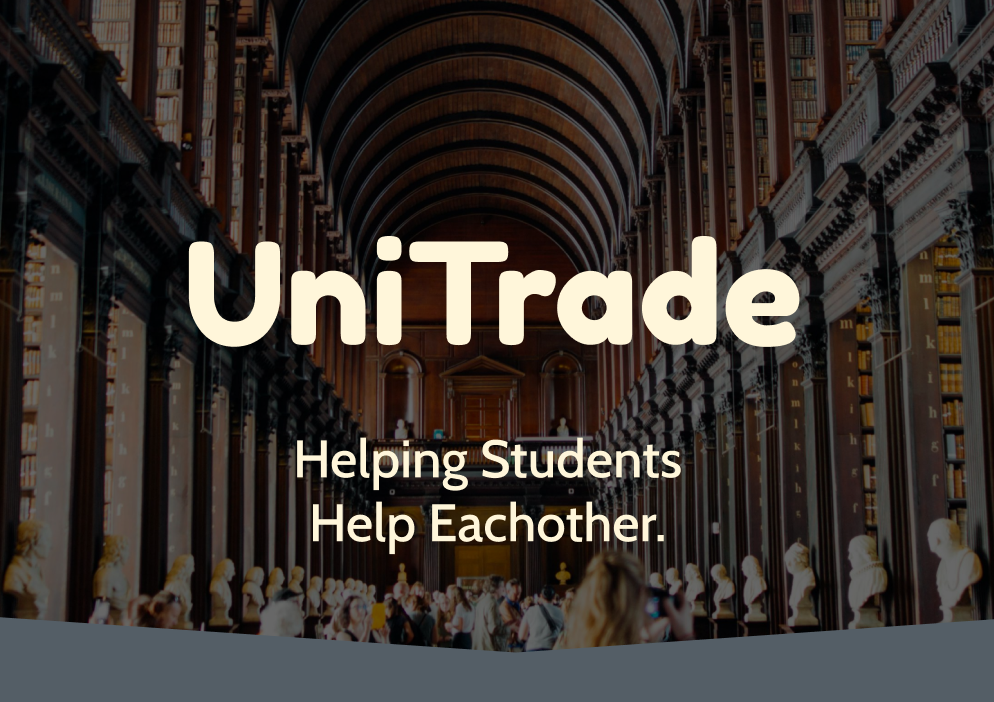
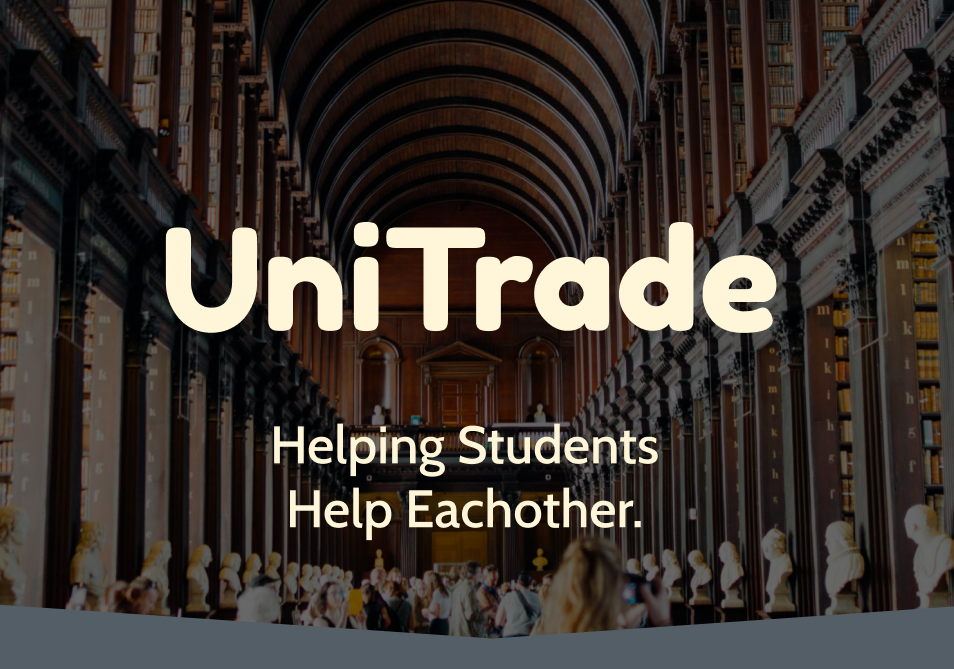
Fixed typo in image name

diff --git a/programming.html b/programming.html
@@ -37,7 +37,7 @@
         <div class="project-desc even"><h3>Tower Defense</h3><p>assignment - Concordia University // 2025</p></div>
     </div>
     <div class="project-container">
-        <div class="project-image" onclick="on(); loadProject('project11')"><img src="images/project11-cover.png"></div>
+        <div class="project-image" onclick="on(); loadProject('project11')"><img src="images/project11-Cover.png"></div>
         <div class="project-desc"><h3>UniTrade</h3><p>hackathon entry -ConUHacks IX // 2025</p></div>
     </div>
     <div class="project-container" id=>
